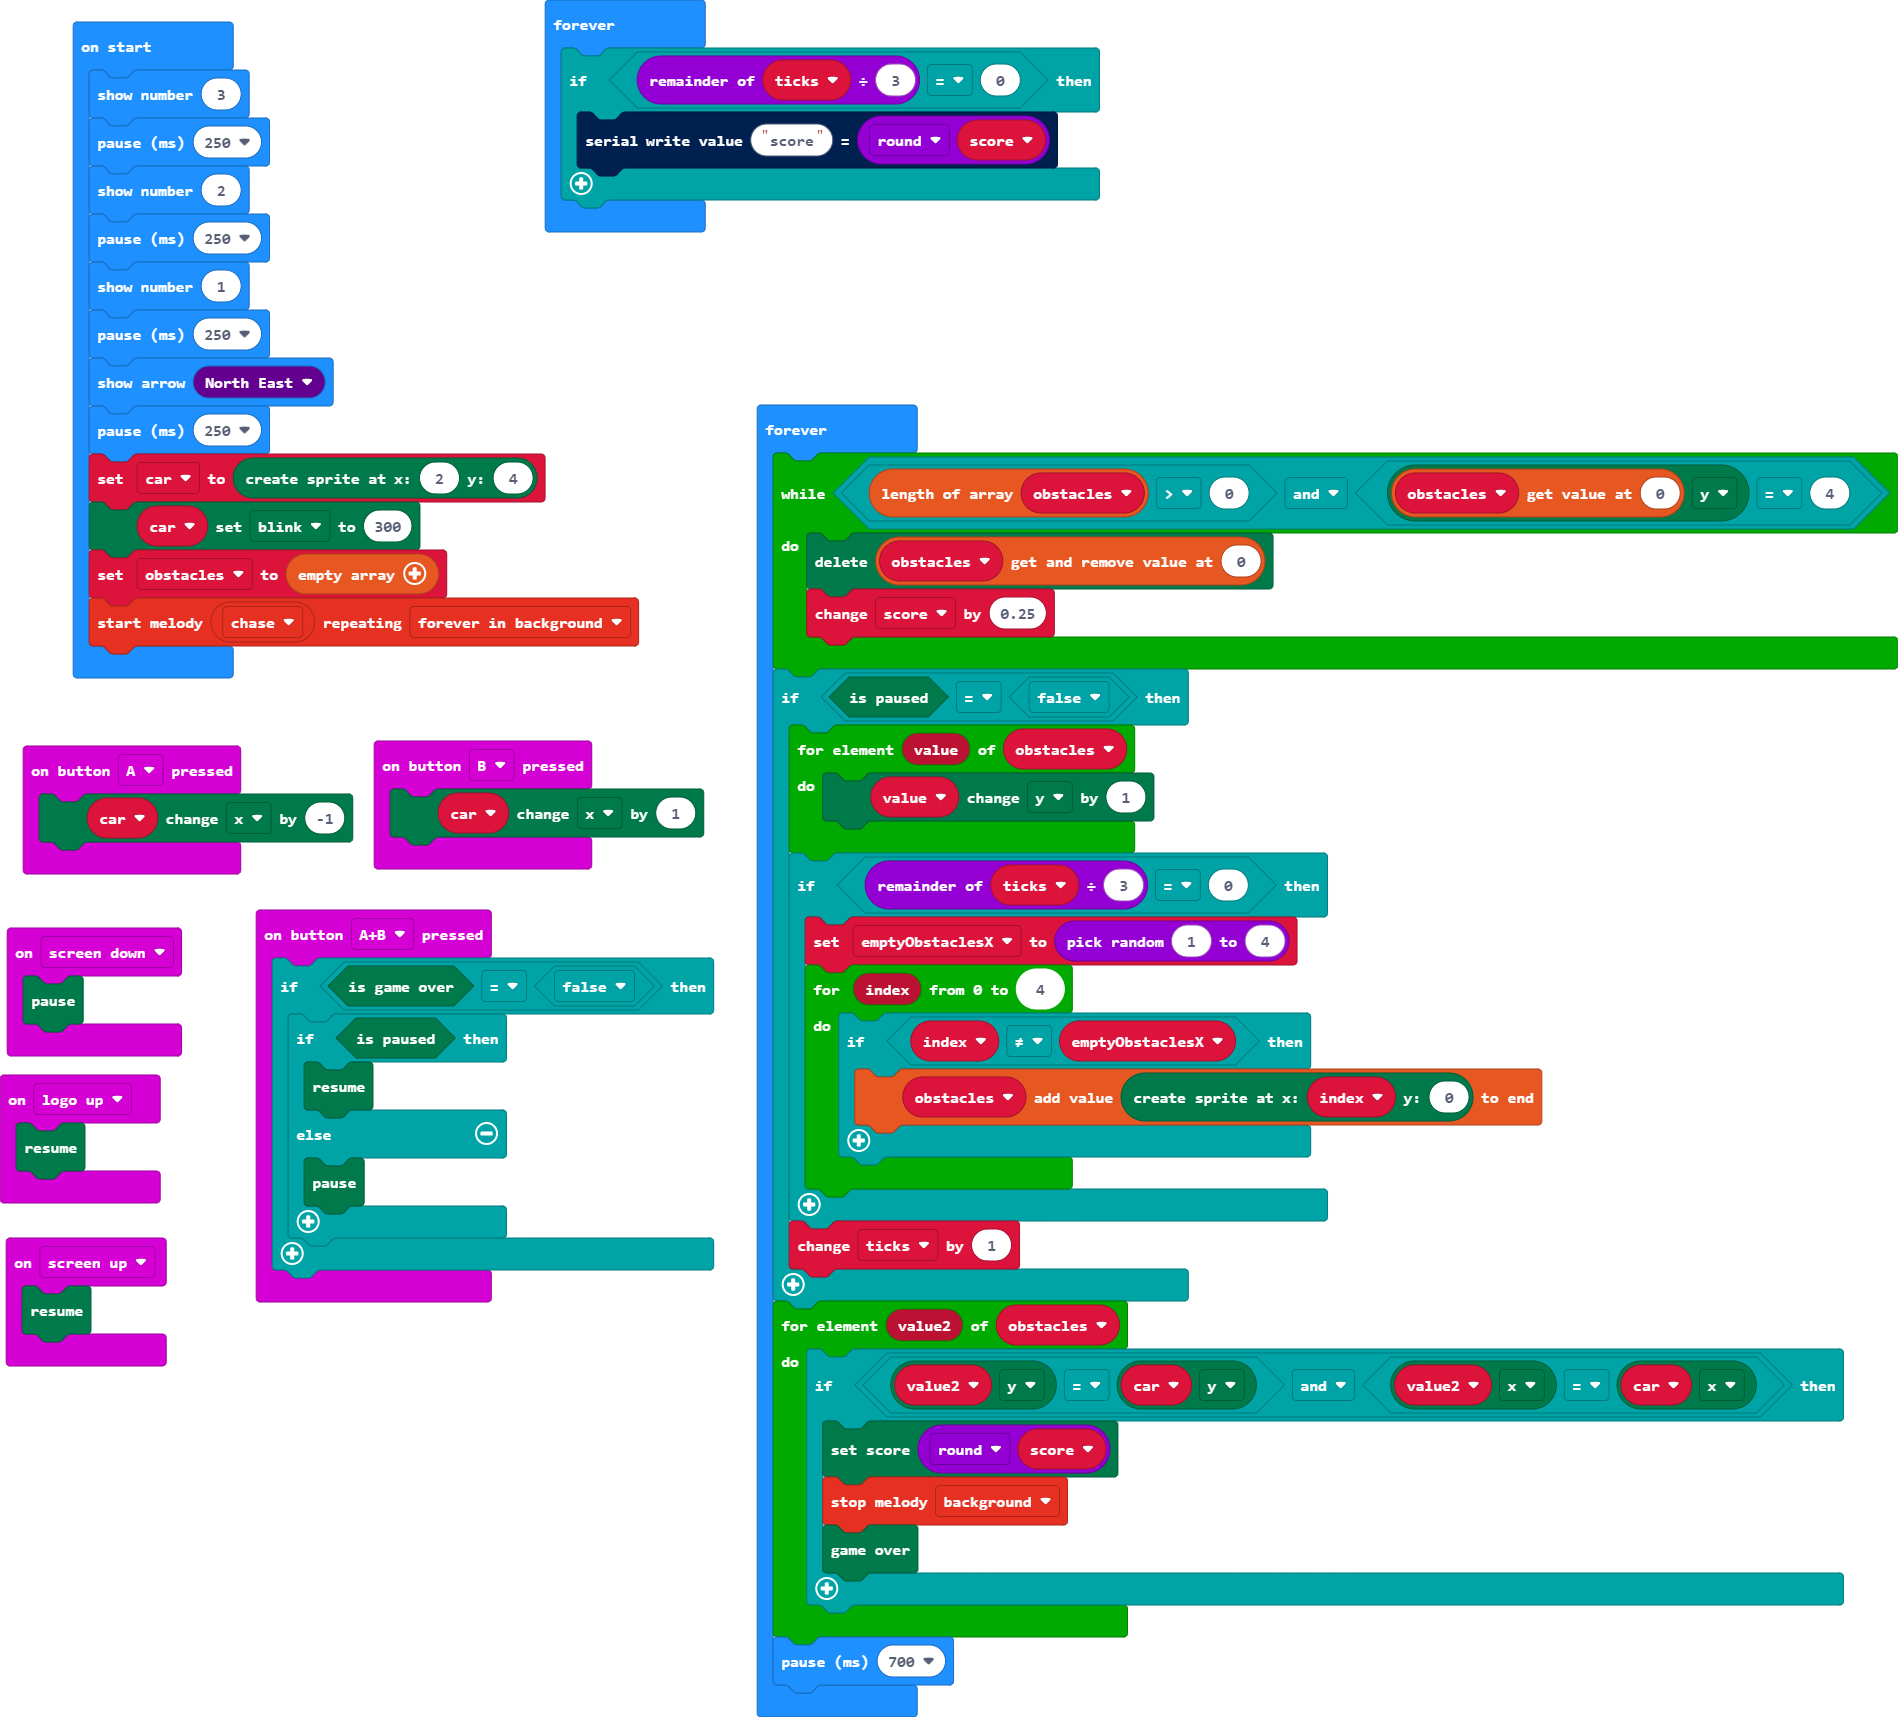
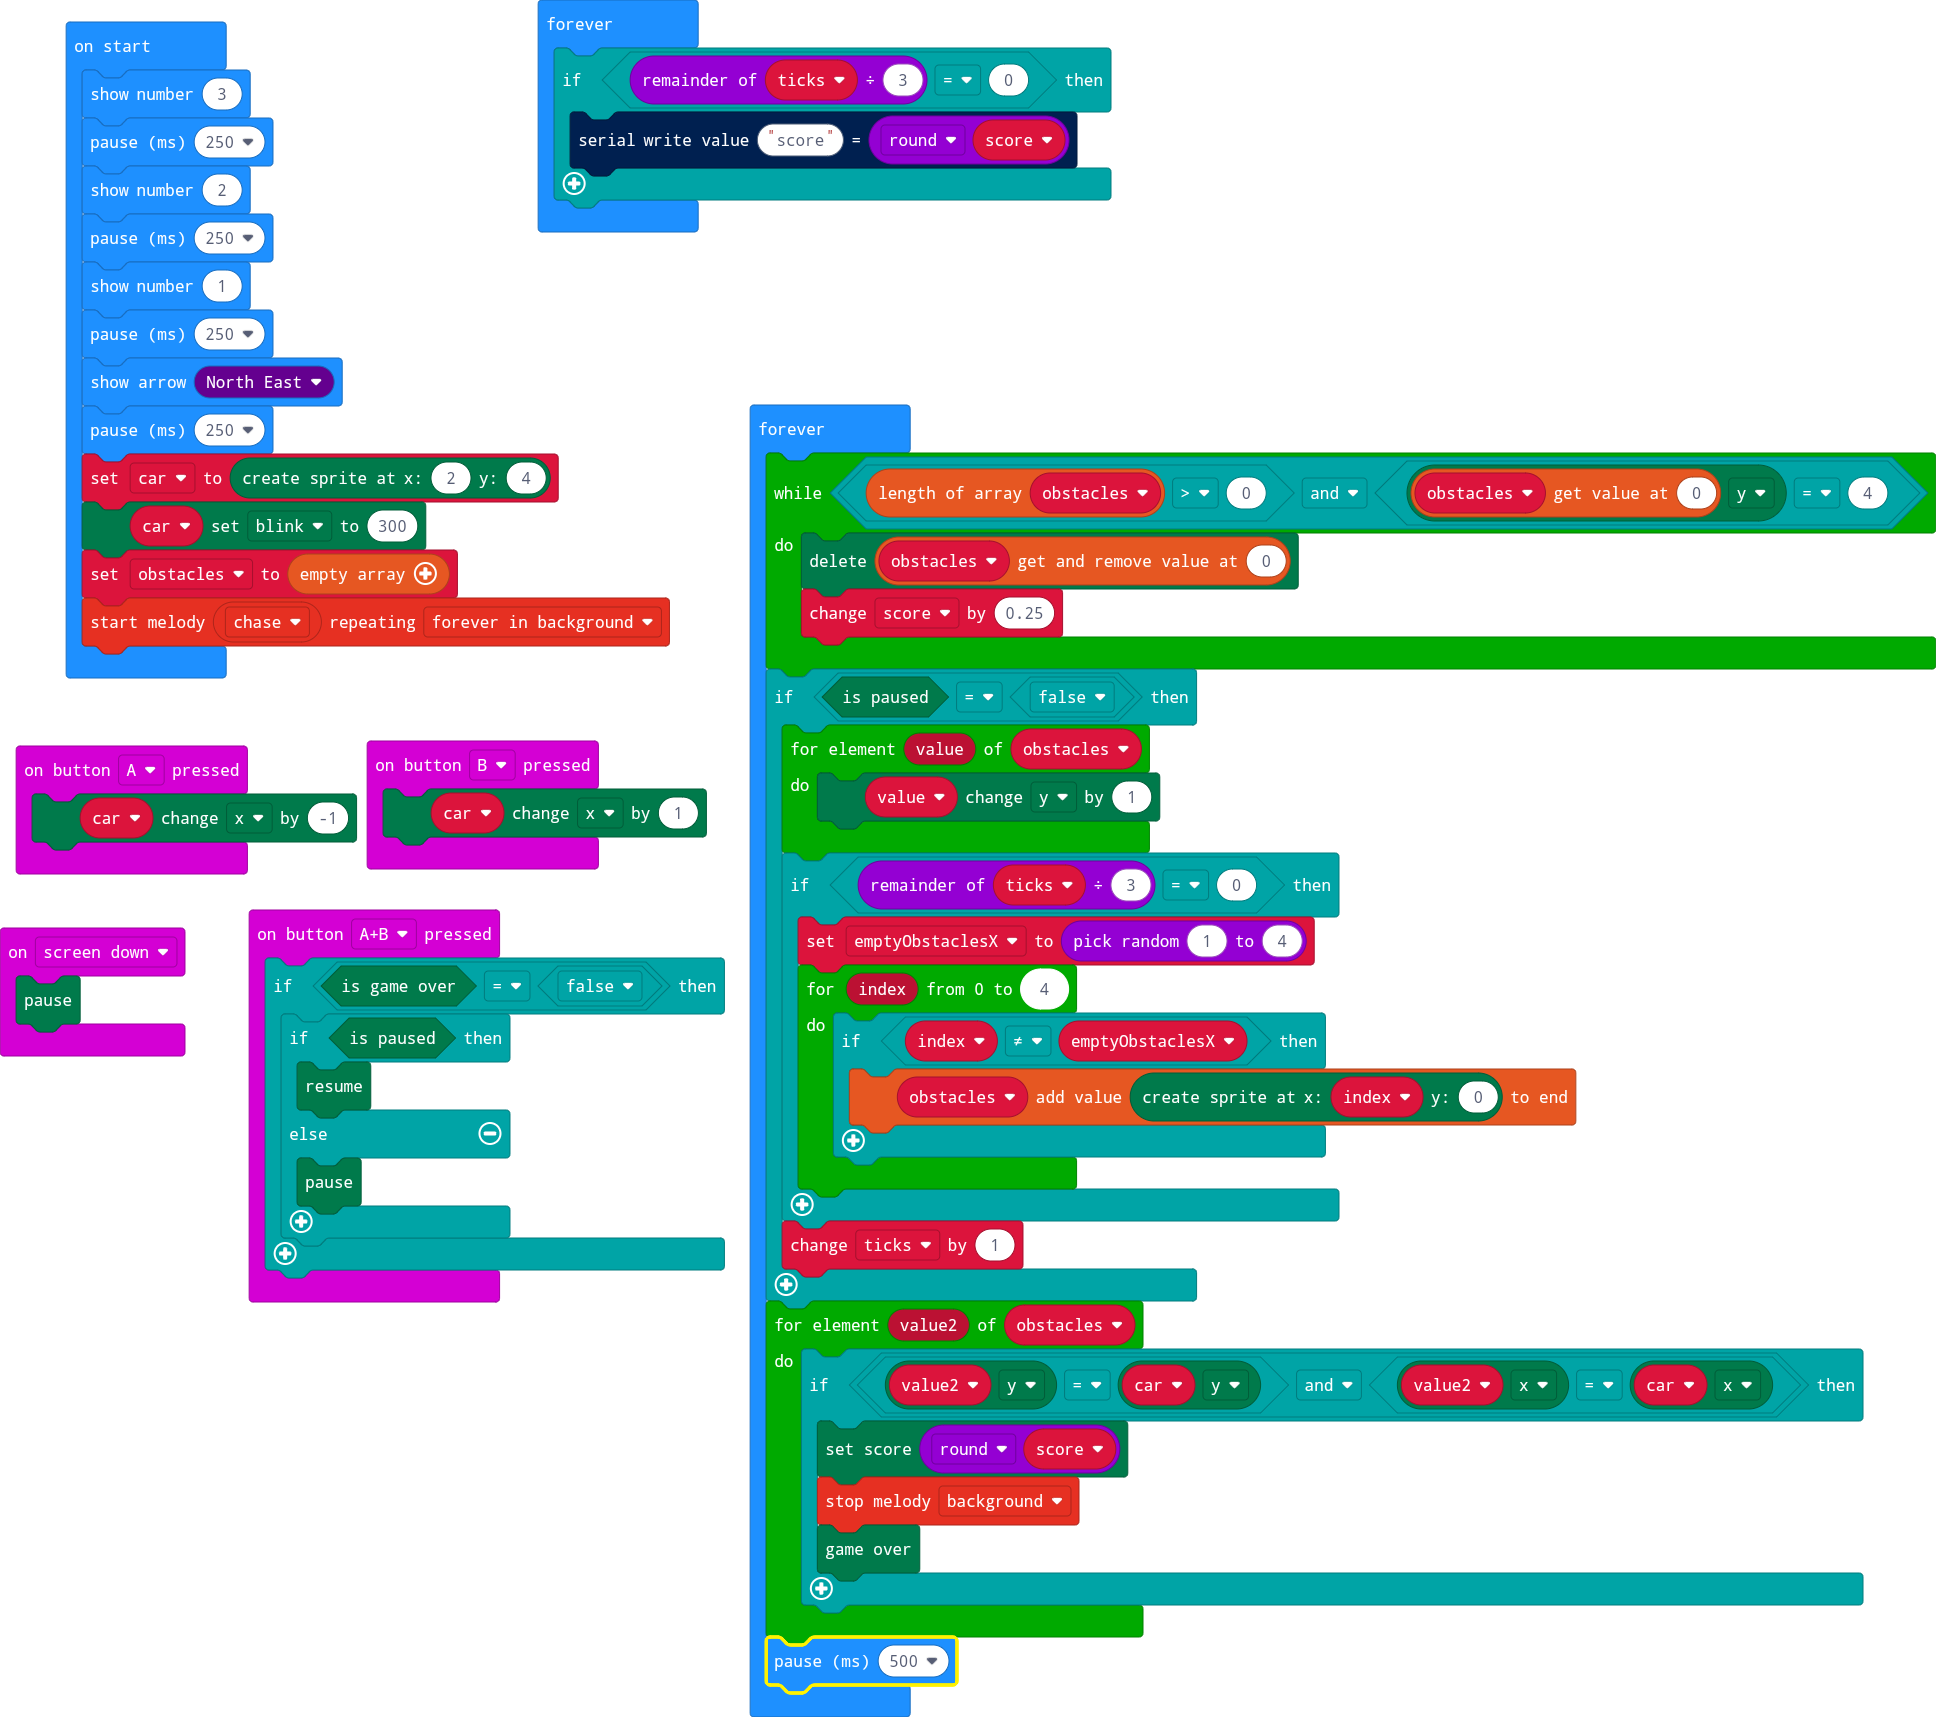
removed flip up resume and sped up the game

diff --git a/main.ts b/main.ts
@@ -1,12 +1,6 @@
 input.onButtonPressed(Button.A, function () {
     car.change(LedSpriteProperty.X, -1)
 })
-input.onGesture(Gesture.LogoUp, function () {
-    game.resume()
-})
-input.onGesture(Gesture.ScreenUp, function () {
-    game.resume()
-})
 input.onGesture(Gesture.ScreenDown, function () {
     game.pause()
 })
@@ -69,5 +63,5 @@ basic.forever(function () {
             game.gameOver()
         }
     }
-    basic.pause(700)
+    basic.pause(500)
 })
